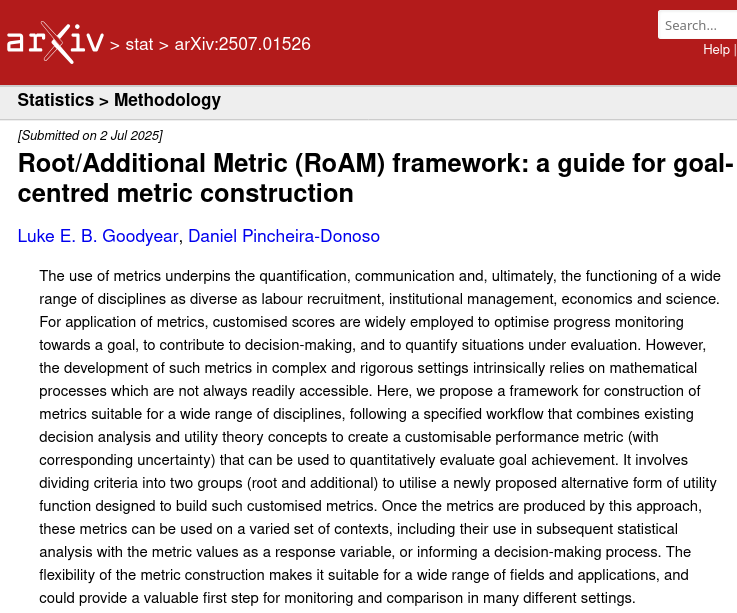
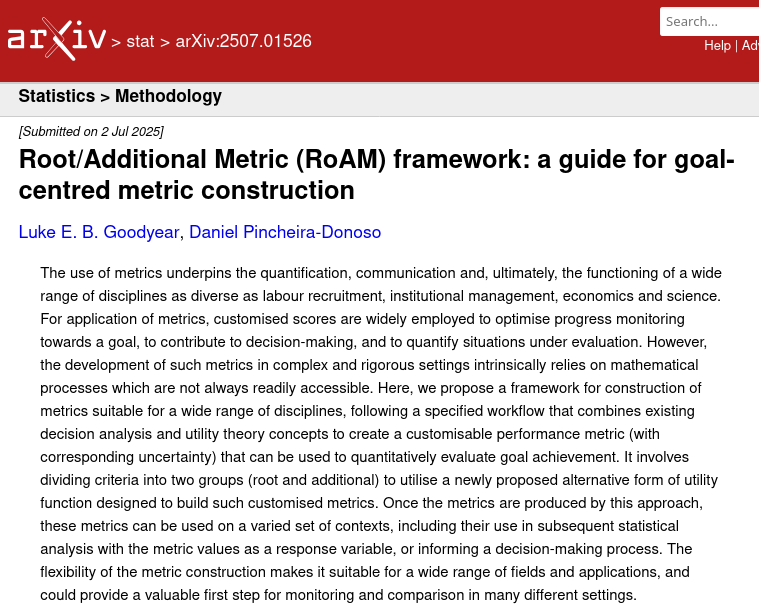
Change cite page background colour and article image

diff --git a/styles.css b/styles.css
@@ -576,7 +576,7 @@ input {
 
 
 .reference {
-  background-color: var(--white);
+  background-color: var(--lightgrey);
   color: var(--darkblue);
   font-weight: 900;
   display: flex;
@@ -594,7 +594,7 @@ input {
 }
 
 .cite, .paper {
-  background-color: var(--white);
+  background-color: var(--lightgrey);
   padding: 5% 116px;
   flex: 1;
 }
@@ -611,7 +611,8 @@ input {
   display:flex;
   justify-content: center;
   align-items: center;
-  max-width: 40%;
+  max-width: 50%;
+  padding-right: 0px;
 }
 
 .screenshot {
@@ -647,7 +648,7 @@ input {
 .cite div {
   display: flex;
   flex-direction: column;
-  justify-content: space-around;
+  justify-content: center;
   width: 100%;
   font-weight: 500;
 }
@@ -658,10 +659,11 @@ input {
   display: flex;
   padding: 2%;
   margin: 5%;
-  width: 30%;
   border-radius: 0.9rem;
-  display: flex;
-  flex: 1;
+}
+
+.bibtex pre, .bibtex code {
+  margin: 0;
 }
 
 .citeHeader {

diff --git a/cite.php b/cite.php
@@ -33,19 +33,19 @@
 
             <div class="citeMain">
 
-            <div class="paper">
-                <a href="https://arxiv.org/abs/2507.01526"><img class="screenshot" src="img/arxiv.png" alt="Screenshot of online article with abstract"></img></a>
-            </div>
-
-            <div class="cite">
-
-                <div class="textCitation">
-                <p class="citeHeader">Plain text citation</p>
-                <p>Goodyear LEB, Pincheira-Donoso D. Root/Additional Metric (RoAM) workflow: a guide for goal-centred metric construction. arXiv [Preprint]. 2025. doi: 10.48550/arXiv.2507.01526
-                </p>
+                <div class="paper">
+                    <a href="https://arxiv.org/abs/2507.01526"><img class="screenshot" src="img/arxiv.png" alt="Screenshot of online article with abstract"></img></a>
                 </div>
-                
-                <div class="bibtex">
+
+                <div class="cite">
+
+                    <div class="textCitation">
+                    <p class="citeHeader">Plain text citation</p>
+                    <p>Goodyear LEB, Pincheira-Donoso D. Root/Additional Metric (RoAM) workflow: a guide for goal-centred metric construction. arXiv [Preprint]. 2025. doi: 10.48550/arXiv.2507.01526
+                    </p>
+                    </div>
+                    
+                    <div class="bibtex">
                     <p class="citeHeader">BibTex citation</p>
 <pre><code>
 @article{goodyear2025roam,
@@ -56,8 +56,8 @@
     url={https://arxiv.org/abs/2507.01526}
 }
 </code></pre>
+                    </div>
                 </div>
-            </div>
             </div>
 
         </div>
